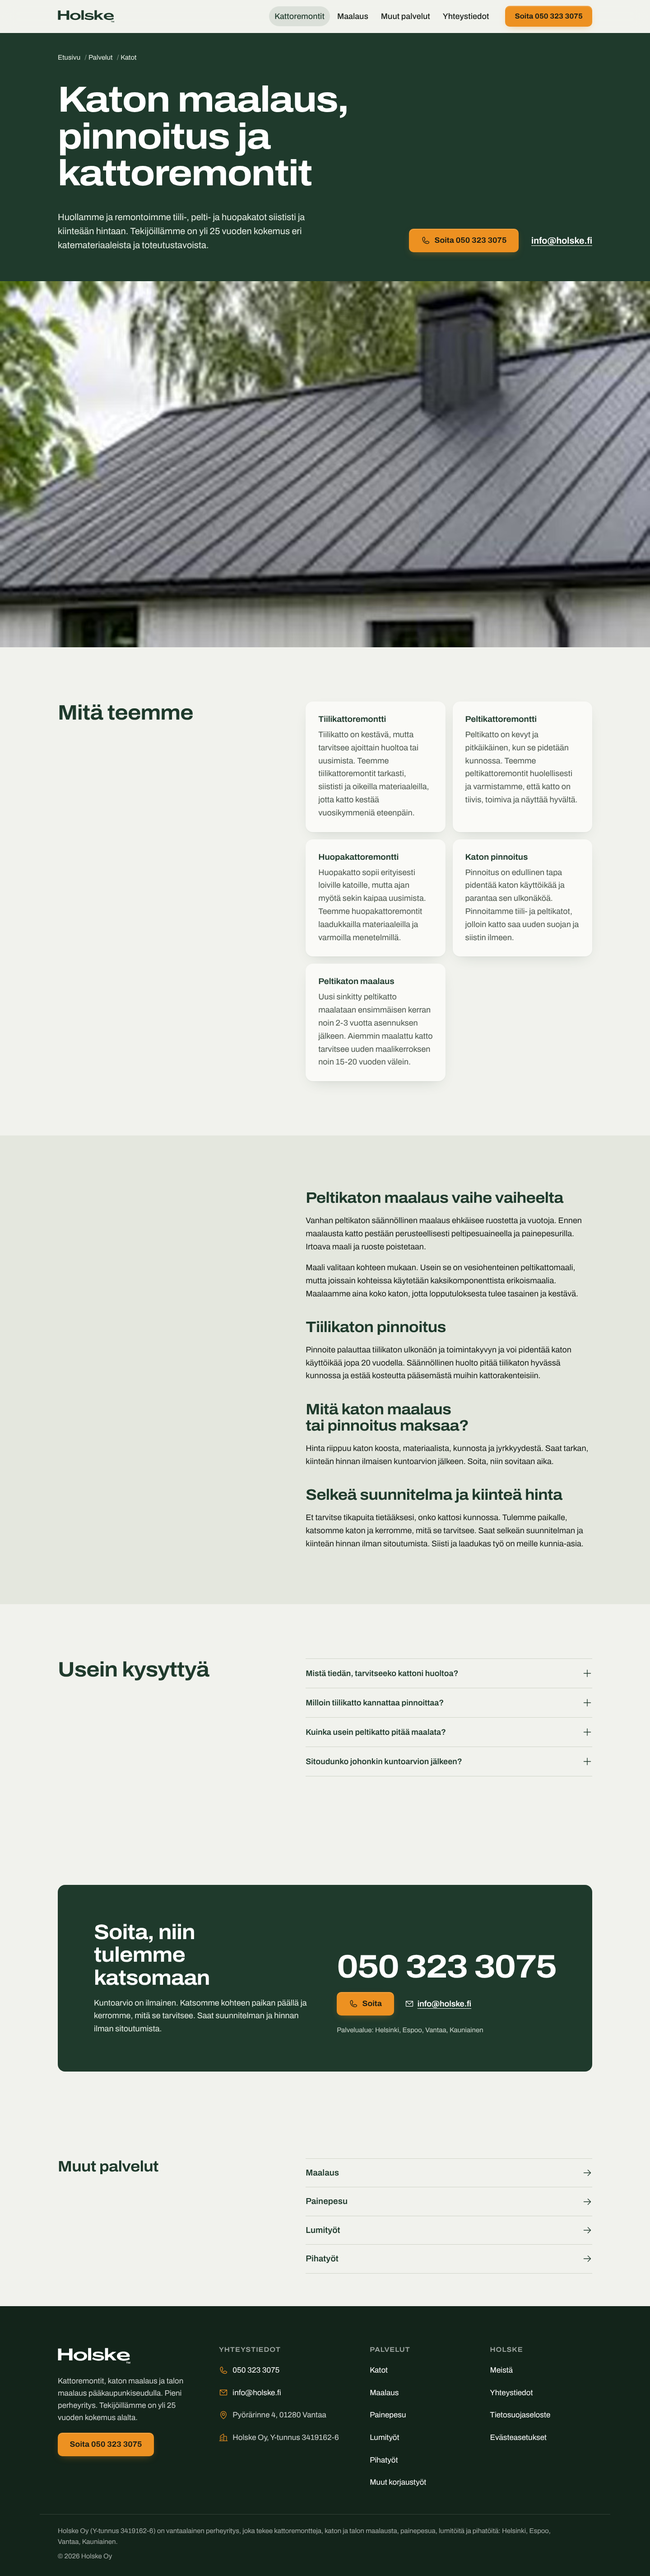
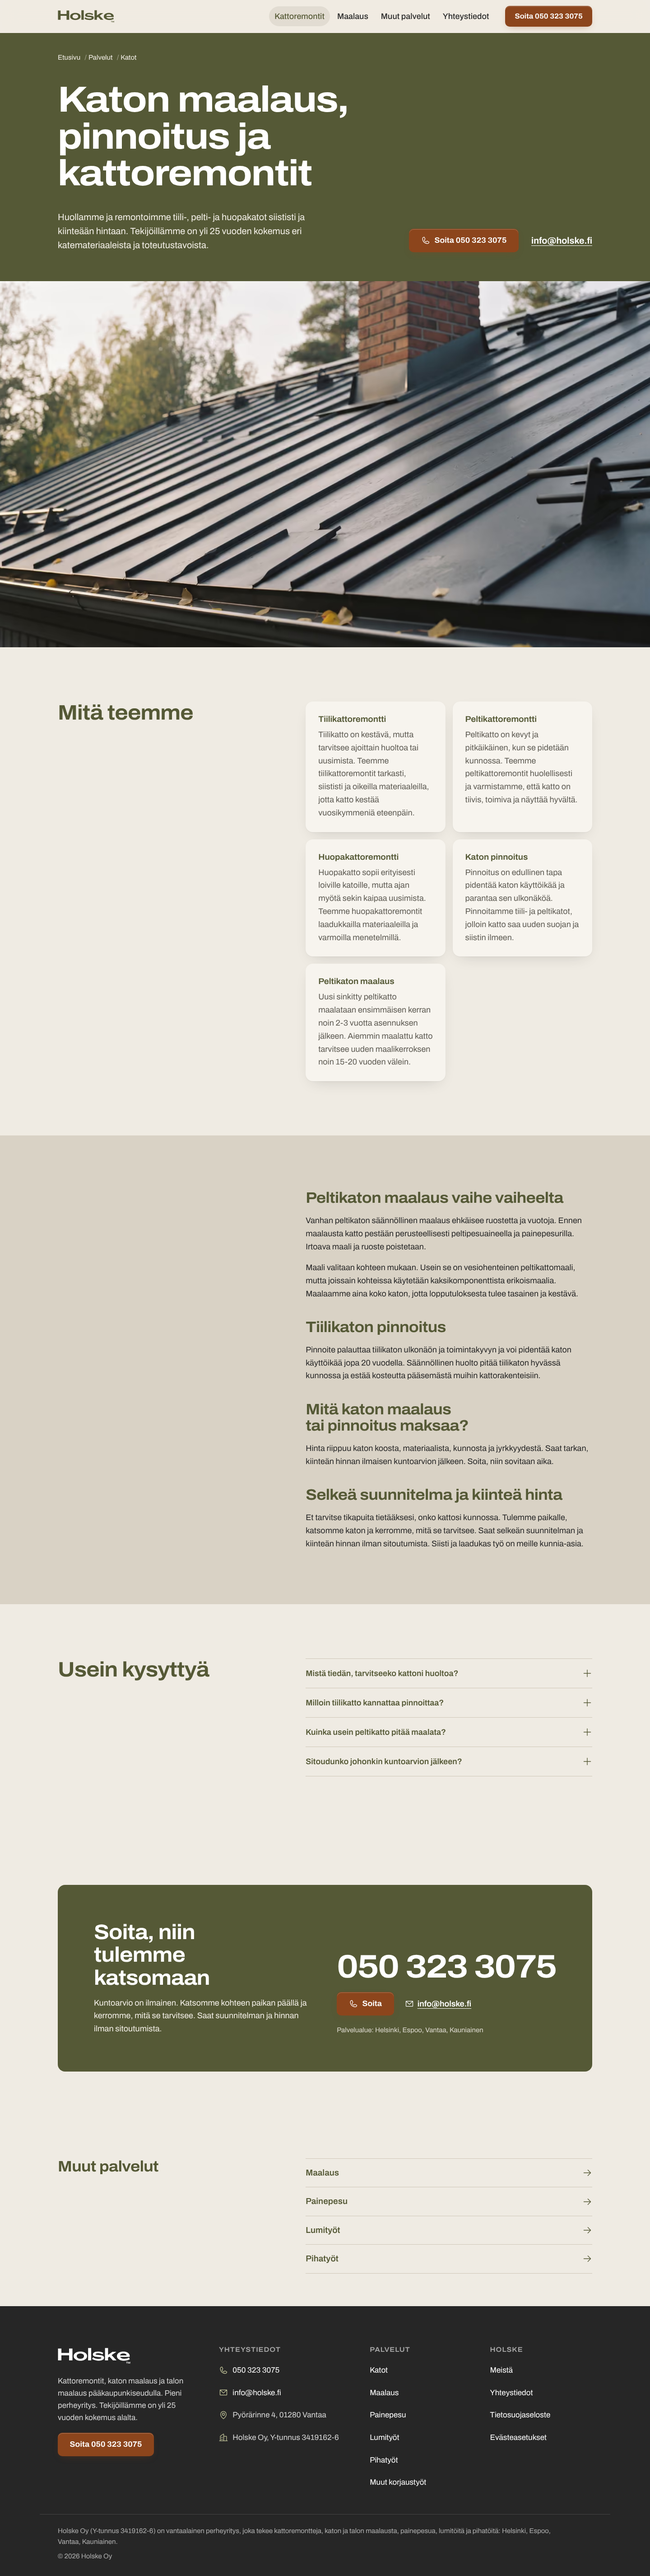
Uusi paletti ja omat kuvat
Oliivi, ruoste, luu ja hiili korvaavat vihreän ja oranssin, tumma tila
samasta paletista. Kuvat nimetty oikein (.jpg.jpg -> .jpg) ja pakattu.
Puuttuvalle muut-korjaukset-kuvalle ikonipaikka. Vahvempi hero-huntu.

Claude-Session: https://claude.ai/code/session_012bJ1opqPGhgEAA6GjRinUX

diff --git a/src/styles/global.css b/src/styles/global.css
@@ -1,25 +1,25 @@
-/* Holske: valokuvavetoinen, vaalea pohja, kuusenvihreä pääväri ja oranssi vain soittamiseen.
+/* Holske: valokuvavetoinen, luunvaalea pohja, oliivi pääväri ja ruoste vain soittamiseen.
    Kulmat: pinnat ja kuvat 16px, napit ja pienet ohjaimet 10px. */
 @import '@fontsource-variable/archivo/wdth.css';
 
 :root {
-  /* Värit */
-  --bg: #f1f2ed;
-  --surface: #fafaf7;
-  --sand: #e4e7de;
-  --moss-soft: #dce3d6;
-  --line: #cfd4c8;
-  --ink: #141a15;
-  --muted: #4a554b;
-  --green: #1f3a2c;
-  --green-fill: #1f3a2c;
-  --green-deep: #13241a;
-  --green-text-on: #e8efe6;
-  --orange: #ed9121;
-  --orange-hover: #f5a445;
-  --orange-ink: #141a15;
+  /* Värit: oliivi, ruoste, luu ja hiili */
+  --bg: #efebe3;
+  --surface: #f7f4ee;
+  --sand: #d9d2c5;
+  --moss-soft: #e3ddd1;
+  --line: #cfc7b8;
+  --ink: #262626;
+  --muted: #5d5a52;
+  --green: #555936;
+  --green-fill: #555936;
+  --green-deep: #262626;
+  --green-text-on: #f3efe7;
+  --orange: #8c451c;
+  --orange-hover: #a1531f;
+  --orange-ink: #ffffff;
   --danger: #a3361a;
-  --ok: #2c6a3f;
+  --ok: #555936;
 
   /* Typografia */
   --font-display: 'Archivo Variable', 'Archivo', 'Helvetica Neue', Arial, sans-serif;
@@ -39,7 +39,7 @@
   --r-sm: 10px;
   --r-md: 16px;
   --r-lg: 16px;
-  --shadow: 0 1px 2px rgb(31 58 44 / 0.05), 0 12px 32px -16px rgb(31 58 44 / 0.22);
+  --shadow: 0 1px 2px rgb(38 38 38 / 0.05), 0 12px 32px -16px rgb(38 38 38 / 0.22);
   --header-h: 4.5rem;
 
   /* Liike */
@@ -51,17 +51,18 @@
 /* Tumma tila: sama paletti, kuusenvihreän sävyinen yöpohja */
 @media (prefers-color-scheme: dark) {
   :root {
-    --bg: #101814;
-    --surface: #16201b;
-    --sand: #1a2620;
-    --moss-soft: #22302a;
-    --line: #2c3a33;
-    --ink: #e6ece7;
-    --muted: #a9b6ad;
-    --green: #a9d0b6;
-    --green-fill: #1f3a2c;
-    --green-deep: #0b120e;
-    --orange-hover: #f7ad55;
+    --bg: #1d1c1a;
+    --surface: #262626;
+    --sand: #2c2b28;
+    --moss-soft: #33312d;
+    --line: #3a3833;
+    --ink: #efebe3;
+    --muted: #b9b2a5;
+    --green: #c9cc9f;
+    --green-fill: #555936;
+    --green-deep: #141413;
+    --orange: #b65e2c;
+    --orange-hover: #a85626;
     --shadow: 0 1px 2px rgb(0 0 0 / 0.3), 0 12px 32px -16px rgb(0 0 0 / 0.6);
   }
 }
@@ -159,7 +160,7 @@ a:hover { text-decoration-thickness: 2px; }
 .section--green :focus-visible,
 .site-footer :focus-visible,
 .tulos-kortti :focus-visible {
-  outline-color: var(--orange);
+  outline-color: var(--green-text-on);
 }
 
 .visually-hidden {
@@ -258,7 +259,7 @@ a:hover { text-decoration-thickness: 2px; }
   color: var(--btn-fg);
   font: 650 1.0625rem/1.2 var(--font-body);
   font-stretch: 104%;
-  box-shadow: 0 1px 0 rgb(255 255 255 / 0.25) inset, 0 6px 18px -8px rgb(237 145 33 / 0.55);
+  box-shadow: 0 1px 0 rgb(255 255 255 / 0.25) inset, 0 6px 18px -8px rgb(140 69 28 / 0.45);
   letter-spacing: 0.005em;
   text-decoration: none;
   cursor: pointer;
@@ -349,7 +350,7 @@ select:focus-visible,
 textarea:focus-visible {
   outline: none;
   border-color: var(--green);
-  box-shadow: 0 0 0 4px color-mix(in srgb, var(--orange) 45%, transparent);
+  box-shadow: 0 0 0 4px color-mix(in srgb, var(--green) 35%, transparent);
 }
 [aria-invalid='true'] { border-color: var(--danger); }
 .field-error {
@@ -384,5 +385,5 @@ textarea:focus-visible {
 }
 
 /* Selaimen omat pinnat brändin väreihin */
-::selection { background: var(--orange); color: var(--ink); }
+::selection { background: var(--orange); color: #fff; }
 html { accent-color: var(--green); }

diff --git a/DESIGN.md b/DESIGN.md
@@ -3,21 +3,24 @@
 Holsken visuaalinen järjestelmä, yksinkertainen versio. Suunta: alan standardi huippulaatuisena, valokuvavetoinen. Lähteet: `src/styles/global.css`, komponentit `src/components/`.
 
 ## Tunnelma
-Selkeä ja luotettava. Iso valokuva, lyhyt lupaus, puhelinnumero. Kuusenvihreä pääväri, oranssi vain soittamiseen. Ei eyebrow-otsakkeita, ei piirrettyjä kuvituksia, ei ajatusviivoja.
+Selkeä ja luotettava. Iso valokuva, lyhyt lupaus, puhelinnumero. Oliivi pääväri, ruoste vain soittamiseen, luunvaalea pohja. Ei eyebrow-otsakkeita, ei piirrettyjä kuvituksia, ei ajatusviivoja.
 
 ## Värit (vaalea / tumma tila)
+Omistajan paletti: oliivi #555936, ruoste #8C451C, luu #D9D2C5, hiili #262626.
+
 | Token | Vaalea | Tumma | Käyttö |
 |---|---|---|---|
-| `--bg` | #f1f2ed | #101814 | sivun pohja |
-| `--surface` | #fafaf7 | #16201b | kortit |
-| `--sand` | #e4e7de | #1a2620 | vaihtuvat osiot ja kortit |
-| `--ink` | #141a15 | #e6ece7 | teksti |
-| `--muted` | #4a554b | #a9b6ad | toissijainen teksti |
-| `--green` | #1f3a2c | #a9d0b6 | otsikot ja linkit (tekstiväri) |
-| `--green-fill` | #1f3a2c | #1f3a2c | vihreät pinnat (hero ilman kuvaa, esittelysolu, yhteyspaneeli) |
-| `--orange` | #ed9121 | #ed9121 | vain soittonapit. Teksti päällä #141a15. |
+| `--bg` | #efebe3 | #1d1c1a | sivun pohja |
+| `--surface` | #f7f4ee | #262626 | kortit |
+| `--sand` | #d9d2c5 | #2c2b28 | vaihtuvat osiot ja kortit |
+| `--ink` | #262626 | #efebe3 | teksti |
+| `--muted` | #5d5a52 | #b9b2a5 | toissijainen teksti |
+| `--green` | #555936 | #c9cc9f | otsikot ja linkit (oliivi tekstinä) |
+| `--green-fill` | #555936 | #555936 | oliivipinnat (esittelysolu, yhteyspaneeli) |
+| `--green-deep` | #262626 | #141413 | footer |
+| `--orange` | #8c451c | #b65e2c | vain soittonapit, teksti valkoinen |
 
-Tumma tila seuraa käyttöjärjestelmän asetusta (`prefers-color-scheme`).
+Kontrastit tarkistettu (WCAG AA): oliivi pohjalla 6.2:1, ruostenappi 7.0:1, hiili pohjalla 12.7:1.
 
 ## Typografia
 - Archivo Variable. H1 720 / stretch 112 %, enintään 5rem. H2 680 / 108 %. H3 640.

diff --git a/.impeccable/surfaces/src-pages-index-astro.md b/.impeccable/surfaces/src-pages-index-astro.md
@@ -14,8 +14,8 @@ Unresolved: valokuvat puuttuvat (paikkamerkit).
 
 ## Direction contract
 THESIS: Alan standardi huippulaatuisena (käyttäjän valinta, standing exit). Valokuva, lyhyt lupaus ja puhelinnumero heti. Kieltäytyy piirretyistä kuvituksista, eyebrow-otsakkeista, keksityistä luvuista ja samanlaisista osioista.
-OWN-WORLD: vaalea viileä pohja, kuusenvihreä teksti ja pinnat, oranssi vain soittamiseen. Kulmat 16/10px. Phosphor-ikonit. Tumma tila samasta paletista.
+OWN-WORLD: luunvaalea pohja, oliivi teksti ja pinnat, ruoste vain soittamiseen, hiili footerissa. Kulmat 16/10px. Phosphor-ikonit. Tumma tila samasta paletista.
 STORY: kävijä näkee talon ja katon, ymmärtää että Holske tekee kattoja ja maalausta, tunnistaa katon merkit, näkee huoltovälit ja soittaa.
-FIRST VIEWPORT: koko leveyden talokuva, vasemmassa alakulmassa otsikko "Kattoremontit ja katon maalaus", lause ja oranssi Soita-nappi.
+FIRST VIEWPORT: koko leveyden talokuva, vasemmassa alakulmassa otsikko "Kattoremontit ja katon maalaus", lause ja ruosteenvärinen Soita-nappi.
 FORM: canon, seed c2c98c64 (roll degraded, käyttäjä valitsi standardin).
 FINISH: unreviewed and undocumented is unfinished; this build ends with the finish review, the verdict, DESIGN.md, and every shipping raster carrying its provenance

diff --git a/README.md b/README.md
@@ -61,7 +61,7 @@ Mihin tahansa kuvaan voi lisätä erillisen mobiiliversion `<nimi>-mobiili.jpg` 
 
 Alt-tekstit ja rajauksen kohta: `src/data/kuvat.json`. Jos kuvaa ei ole, sen paikka jätetään pois ja sivu toimii ilman sitä.
 
-**Väliaikaiset tekoälykuvat (Canva, 10/2026):** etusivu, katot, katto-huolto ja maalaus on tehty Canvalla. Ne eivät ole Holsken omia töitä, joten vaihda ne omiin kuviin, kun niitä on. Lataa ne Canvasta täysikokoisina ja tallenna yllä olevilla nimillä.
+**Tekoälykuvat (10/2026):** nykyiset kuvat on generoitu, eivätkä ne ole Holsken omia töitä. Vaihda ne omiin kuviin samoilla nimillä, kun niitä on. `muut-korjaukset.jpg` puuttuu vielä, joten sen kortissa näkyy ikoni. Tallenna tiedostot nimellä `nimi.jpg`, ei `nimi.jpg.jpg`.
 
 **Logo** on kansiossa `assets/logot-ja-grafiikat/`:
 - `logo.svg`: päälogo (Holske™), käytössä headerissa ja footerissa

diff --git a/PRODUCT.md b/PRODUCT.md
@@ -28,7 +28,7 @@ Kävijä vertailee muutamaa paikallista tekijää. Päätös syntyy puhelussa. K
 ## Brand Commitments
 - Nimi Holske Oy, Y-tunnus 3419162-6, Pyörärinne 4, 01280 Vantaa.
 - Logo: `assets/logot-ja-grafiikat/logo.svg` (väri CSS:stä) ja `logo-pieni.svg` (H.).
-- Värit: kuusenvihreä #1f3a2c (pääväri, hero ja tummat osiot), oranssi #ed9121 (soittonapit ja yhteystietokaista), viileä vaalea tausta #f1f2ed. Omistaja hyväksyi ilmeen uudistamisen 10/2026.
+- Värit (omistajan paletti 10/2026): oliivi #555936 (pääväri), ruoste #8C451C (soittonapit), luu #D9D2C5 (pinnat), hiili #262626 (teksti ja footer).
 - Fontti: Archivo (variaatiofontti), otsikot hieman leveinä.
 - Suunta: omistaja valitsi 10/2026 alan standardin huippulaatuisena (valokuvavetoinen, selkeä), ei kokeellisia konsepteja.
 - Sävy: tarjoileva mutta hillitty, arvokas, skandinaavinen. Ei huutomerkkejä.
